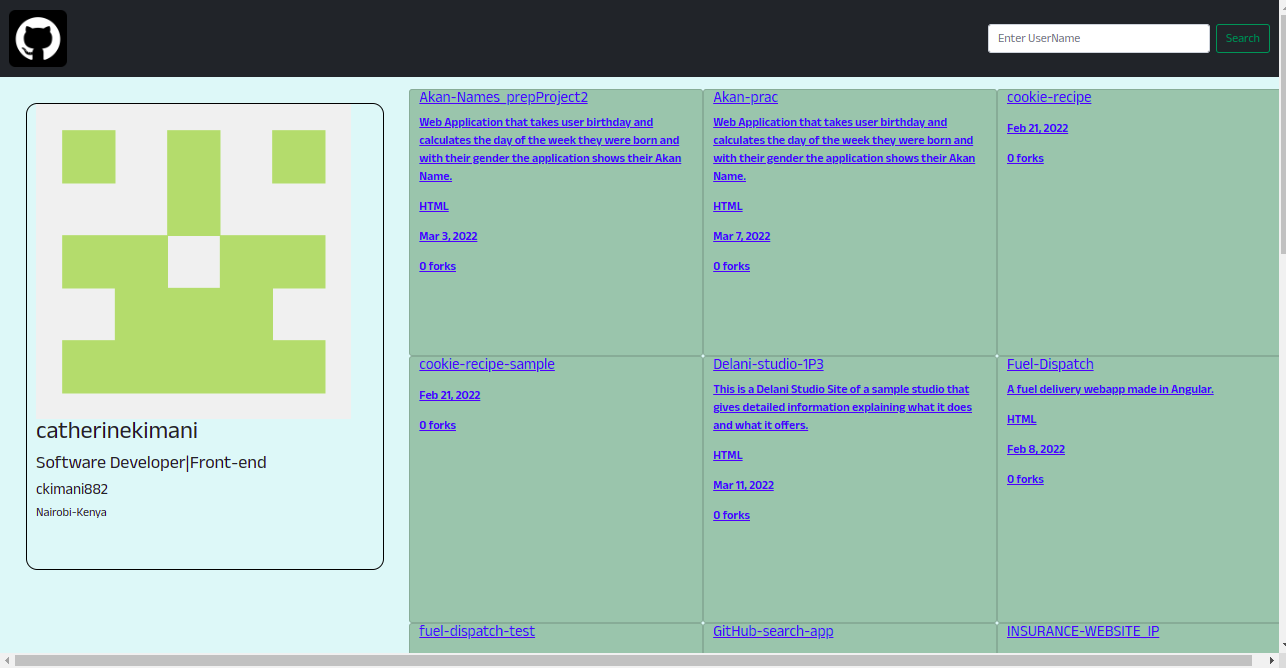
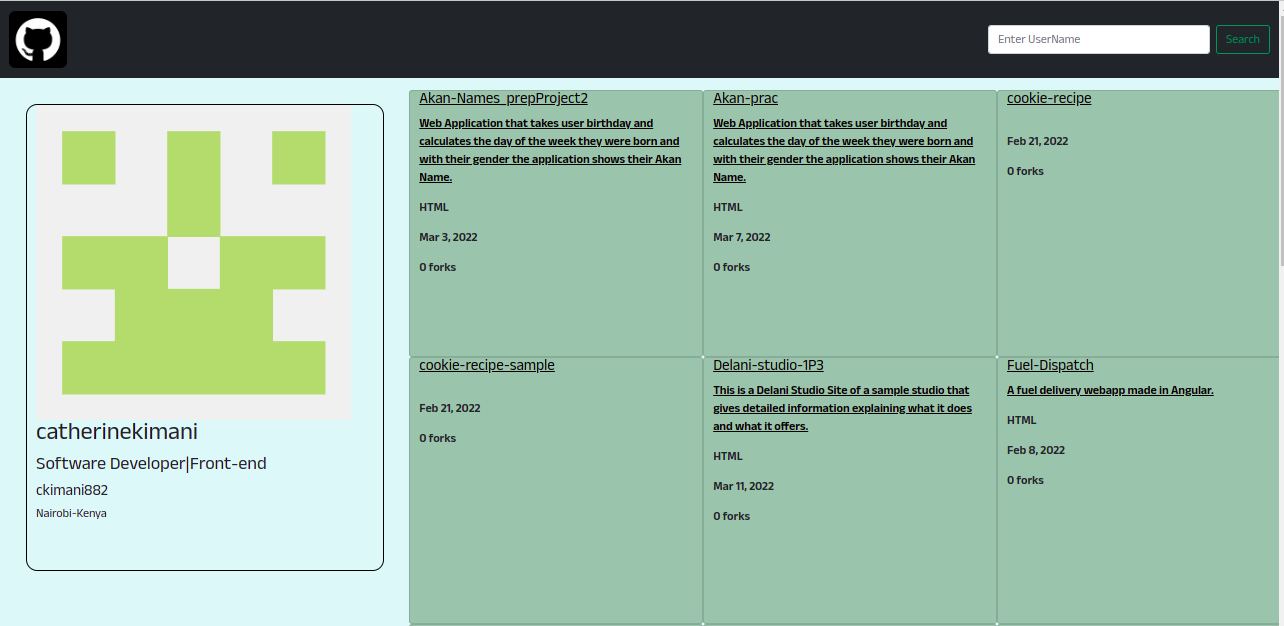
Add slight changes

diff --git a/src/app/repos/repos.component.html b/src/app/repos/repos.component.html
@@ -4,10 +4,11 @@
             <a href="{{repo.html_url}}">
                 <h5>{{repo.name}}</h5>
                 <p>{{repo.description}}</p>
+                </a>
                 <p>{{repo.language}}</p>
                 <p>{{repo.created_at | date}}</p>
                 <p>{{repo.forks_count}} forks </p>
-            </a>
+            
         </div>
     </div>
 </div>

diff --git a/src/app/repos/repos.component.css b/src/app/repos/repos.component.css
@@ -2,3 +2,7 @@
     height: 40vh;
     background-color: rgb(159, 190, 171);
 }
+
+a{
+    color: black;
+}
